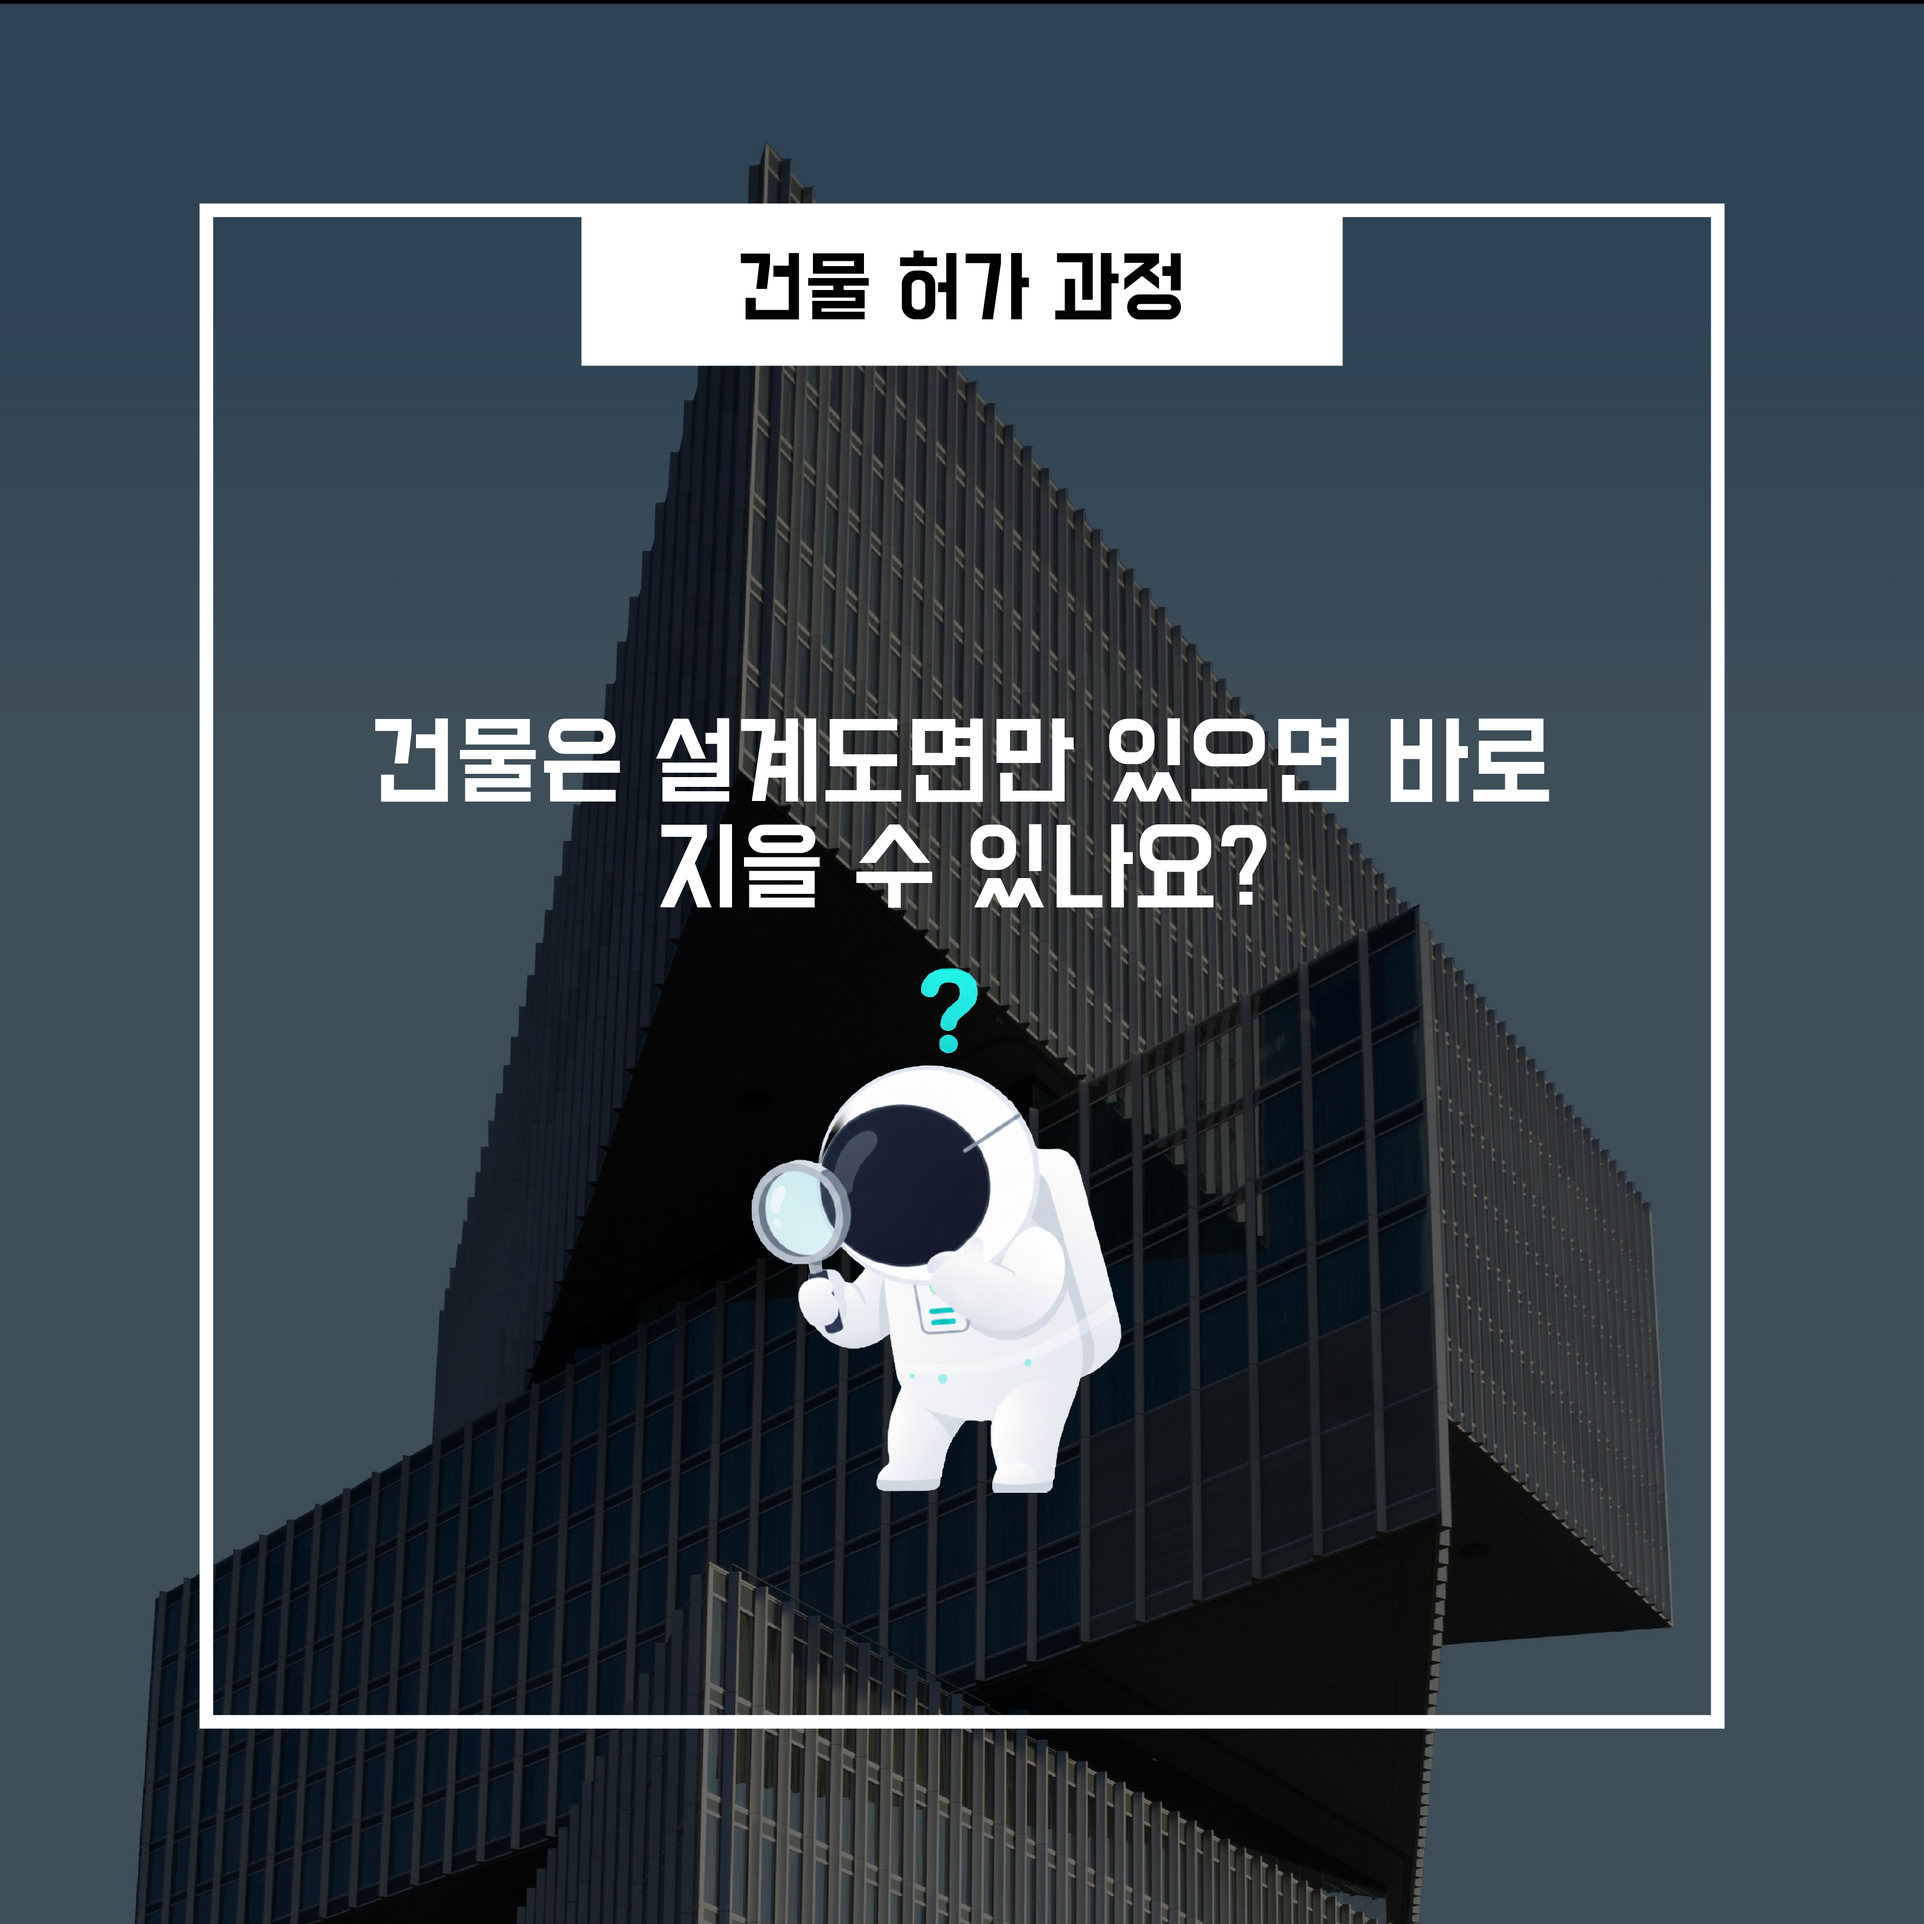
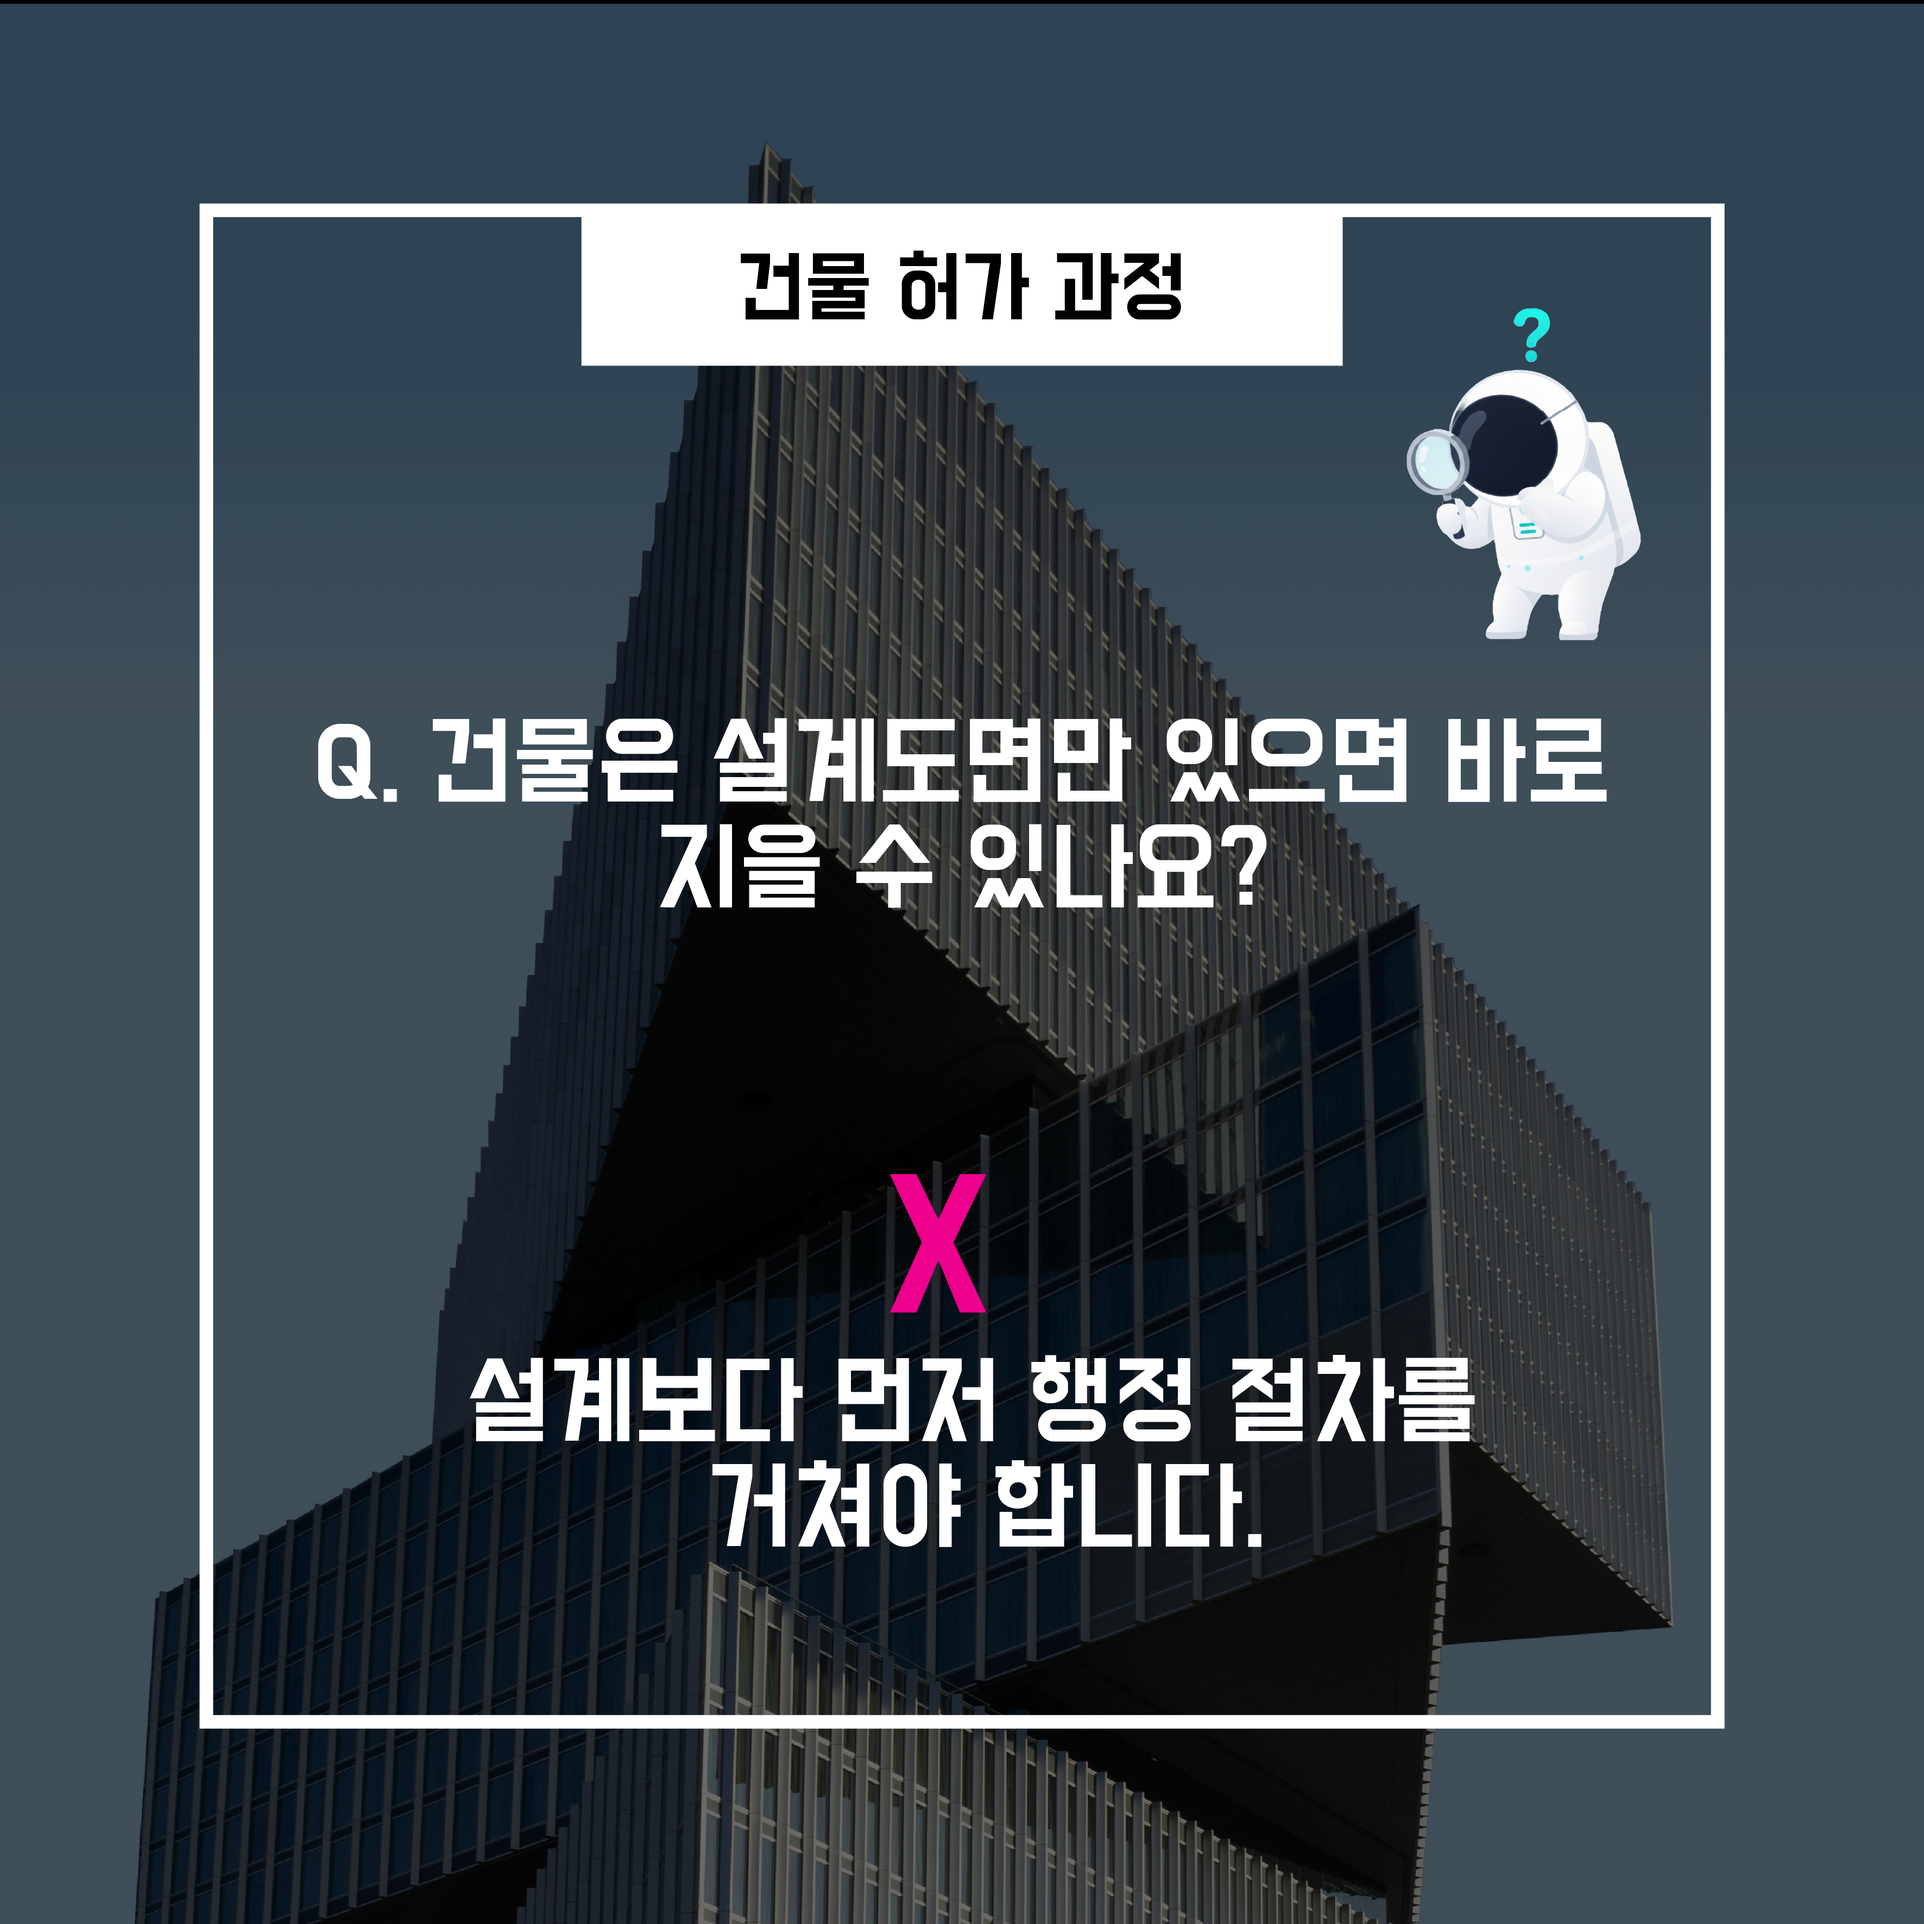
revise

Changed region(s): [[0.2484, 0.4968, 0.7762, 0.8072], [0.1552, 0.3726, 0.8383, 0.4347], [0.7141, 0.1552, 0.8693, 0.3415]]

diff --git a/AEC-Architecture/Regulation/04.Use zones, districts, and areas, why are they so complicated？.md b/AEC-Architecture/Regulation/04.Use zones, districts, and areas, why are they so complicated？.md
@@ -93,7 +93,6 @@
 - 필요하면 지구·구역으로 다시 조정합니다.
 
 ---
-![04-03](assets/images/04-3.jpg)
 
 ## 4-3 정리하면
 

diff --git a/AEC-Architecture/Regulation/05.The building permit process actually goes like this.md b/AEC-Architecture/Regulation/05.The building permit process actually goes like this.md
@@ -2,7 +2,6 @@
 
 ![](assets/images/5-0.jpg)
 
-![](assets/images/5-1.jpg)
 
 ## 5-0왜 설계가 끝나도 바로 공사를 못 할까?
 
